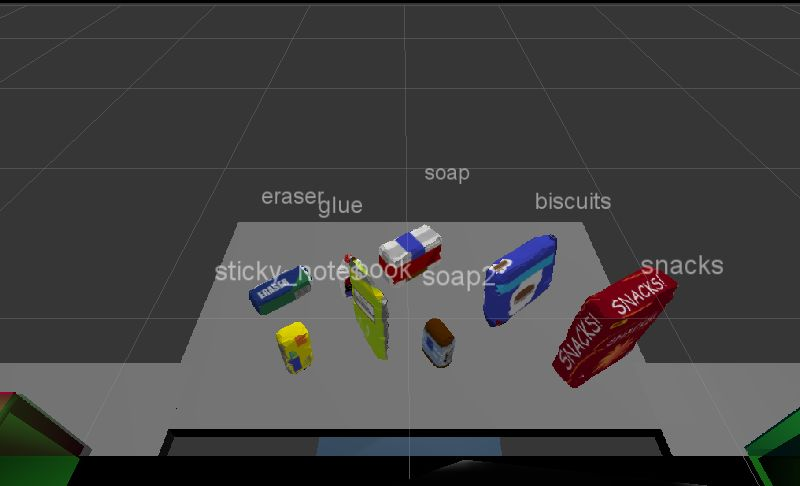
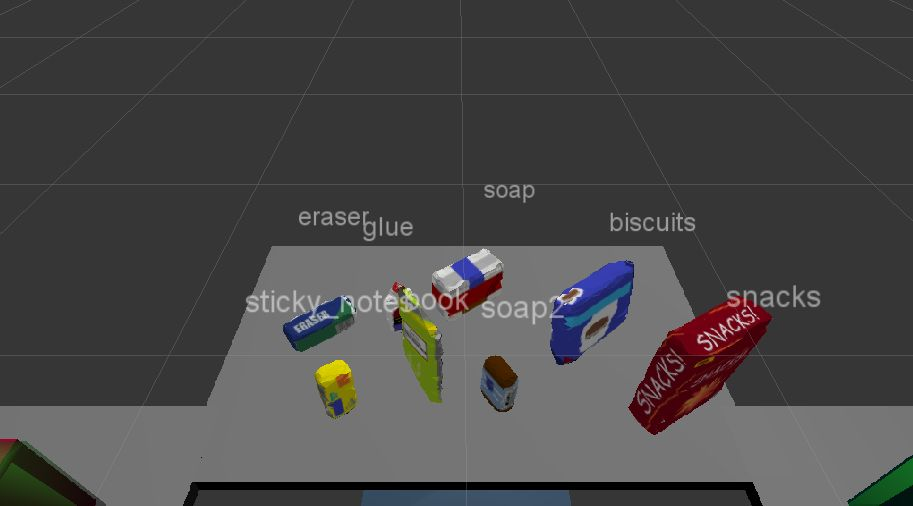
Test model.sav on World 3

Changed region(s): [[0.0, 0.3704, 1.0, 1.0], [0.0, 0.0, 1.0, 0.0309], [0.5312, 0.3395, 0.5938, 0.4012]]

diff --git a/pr2_robot/scripts/object_recognition.py b/pr2_robot/scripts/object_recognition.py
@@ -206,7 +206,7 @@ def pr2_mover(object_list):
 
     # TODO: Initialize variables
     TEST_SCENE_NUM = std_msgs.msg.Int32()
-    TEST_SCENE_NUM.data = 2
+    TEST_SCENE_NUM.data = 3
     OBJECT_NAME = std_msgs.msg.String()
     WHICH_ARM = std_msgs.msg.String() # green = right, red = left
     PICK_POSE = geometry_msgs.msg.Pose()
